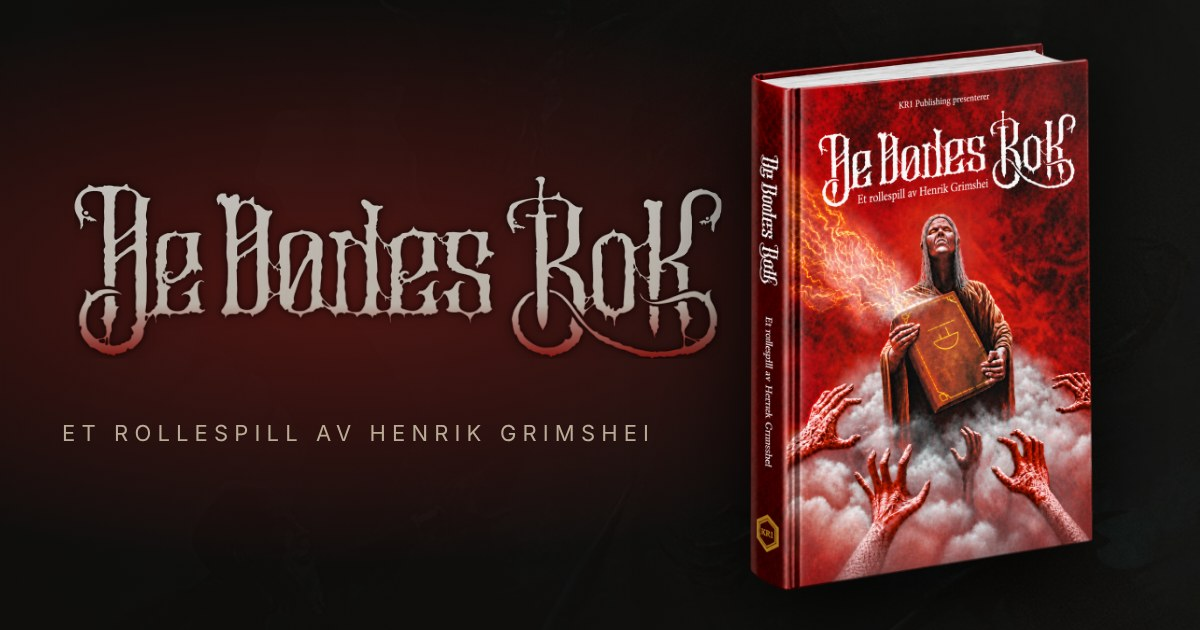
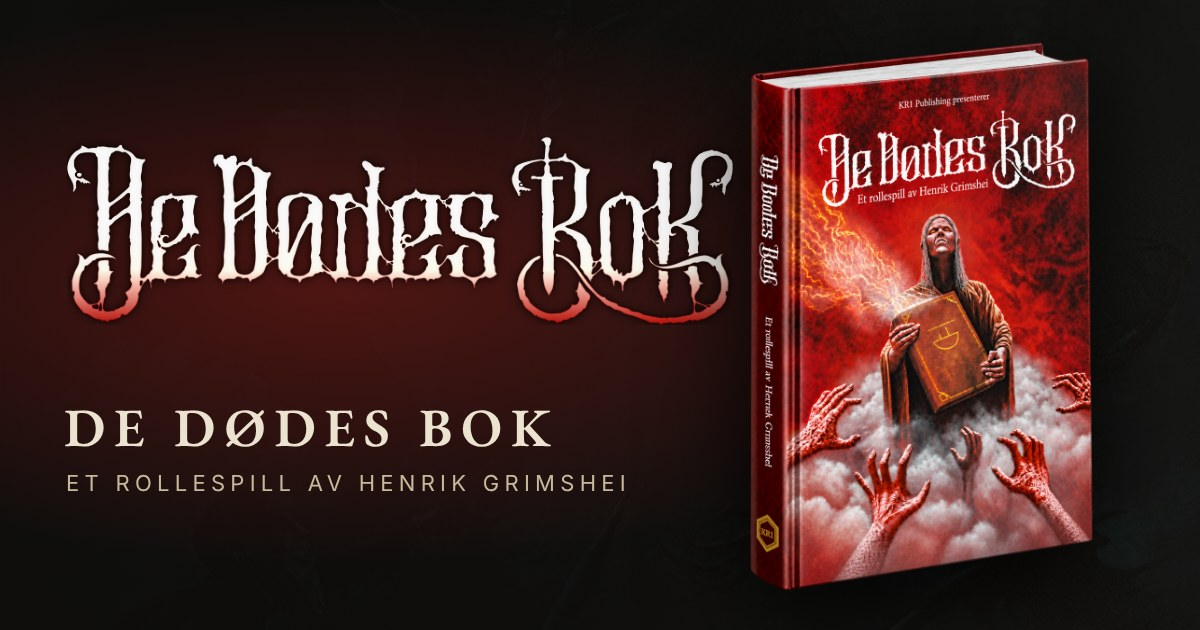
DDB delingsbilde: tittel i vanlig skrift under logoen
Claude-Session: https://claude.ai/code/session_01Go6ret7jCLgDqqds4EMTee

Changed region(s): [[0.0308, 0.2111, 0.6167, 0.573], [0.0308, 0.6333, 0.5242, 0.7238], [0.0617, 0.754, 0.5242, 0.7841]]

diff --git a/ddb.html b/ddb.html
@@ -11,14 +11,14 @@
 <meta property="og:description" content="Tapte kapitler, forbudt kunnskap og ekspedisjoner inn i det uhyggelige. Jakten på de tapte sidene begynner i 2027.">
 <meta property="og:type" content="website">
 <meta property="og:url" content="https://www.kr1publishing.com/ddb">
-<meta property="og:image" content="https://www.kr1publishing.com/img/ddb/og-ddb-v2.jpg">
+<meta property="og:image" content="https://www.kr1publishing.com/img/ddb/og-ddb-v3.jpg">
 <meta property="og:image:width" content="1200">
 <meta property="og:image:height" content="630">
 <meta property="og:image:type" content="image/jpeg">
 <meta property="og:image:alt" content="De Dødes Bok, et rollespill av Henrik Grimshei">
 <meta property="og:site_name" content="KR1 Publishing">
 <meta property="og:locale" content="nb_NO">
-<meta name="twitter:image" content="https://www.kr1publishing.com/img/ddb/og-ddb-v2.jpg">
+<meta name="twitter:image" content="https://www.kr1publishing.com/img/ddb/og-ddb-v3.jpg">
 <meta name="twitter:card" content="summary_large_image">
 <link rel="preconnect" href="https://fonts.googleapis.com">
 <link rel="preconnect" href="https://fonts.gstatic.com" crossorigin>
